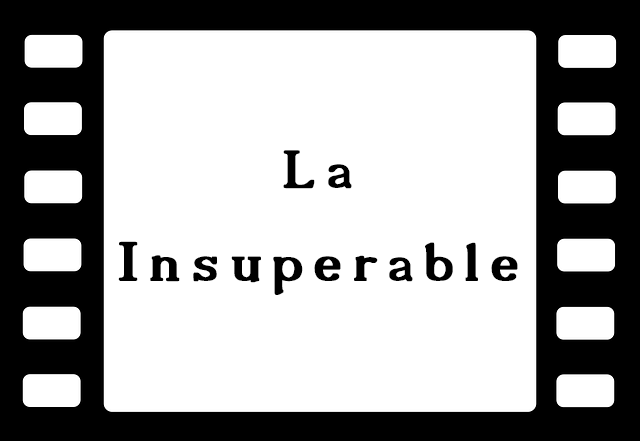
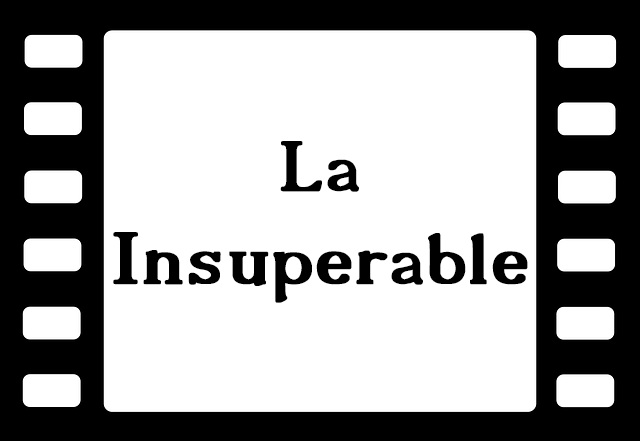
fix thumbnail, embed insuperable video

Changed region(s): [[0.1562, 0.5011, 0.8438, 0.678], [0.4375, 0.2948, 0.5625, 0.4422]]

diff --git a/views/Gallery/Modals/Video_Modal.html b/views/Gallery/Modals/Video_Modal.html
@@ -175,11 +175,11 @@
         <div class="videoSlides">
             <div class="numbertext">15 /15</div>
             <center>
-                <iframe id="galleryVid" width="67%" height="430px" src="https://www.youtube.com/embed/ecU1zISjC8E?rel=0"
+                <iframe id="galleryVid" width="67%" height="430px" src="https://www.youtube.com/embed/szU3oxc7800?rel=0"
                         frameborder="0" allow="accelerometer; autoplay; encrypted-media; gyroscope; picture-in-picture" allowfullscreen>
                 </iframe>
             </center>
-            <center style="color: white;">La Insuperable</center>
+            <center style="color: white;">La Insuperable Promo</center>
         </div>
 
         <a class="prev" onclick="plusVideoSlides(-1)">&#10094;</a>
